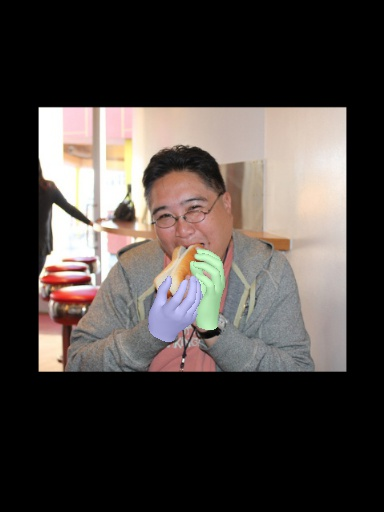
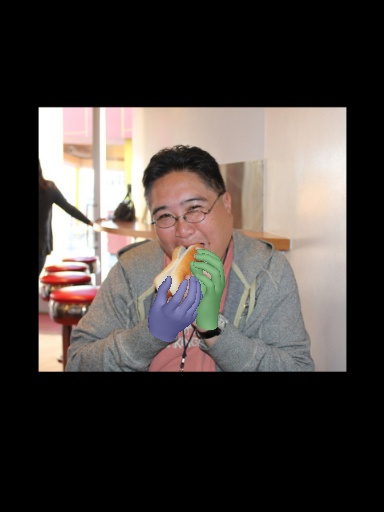
visualization added

Changed region(s): [[0.375, 0.4688, 0.5938, 0.6875]]

diff --git a/common/utils/vis.py b/common/utils/vis.py
@@ -156,6 +156,8 @@ def render_mesh_orthogonal(mesh, face, cam_param, render_shape, hand_type):
         color = ((0.0, 1.0, 0.0),)
     materials = Materials(
 	device='cuda',
+        ambient_color=((0.5,0.5,0.5),),
+        diffuse_color=((1.0,1.0,1.0),),
         specular_color=color,
 	shininess=0
     )
@@ -191,6 +193,8 @@ def render_mesh_perspective(mesh, face, cam_param, render_shape, hand_type):
         color = ((0.0, 1.0, 0.0),)
     materials = Materials(
 	device='cuda',
+        ambient_color=((0.5,0.5,0.5),),
+        diffuse_color=((1.0,1.0,1.0),),
         specular_color=color,
 	shininess=0
     )
